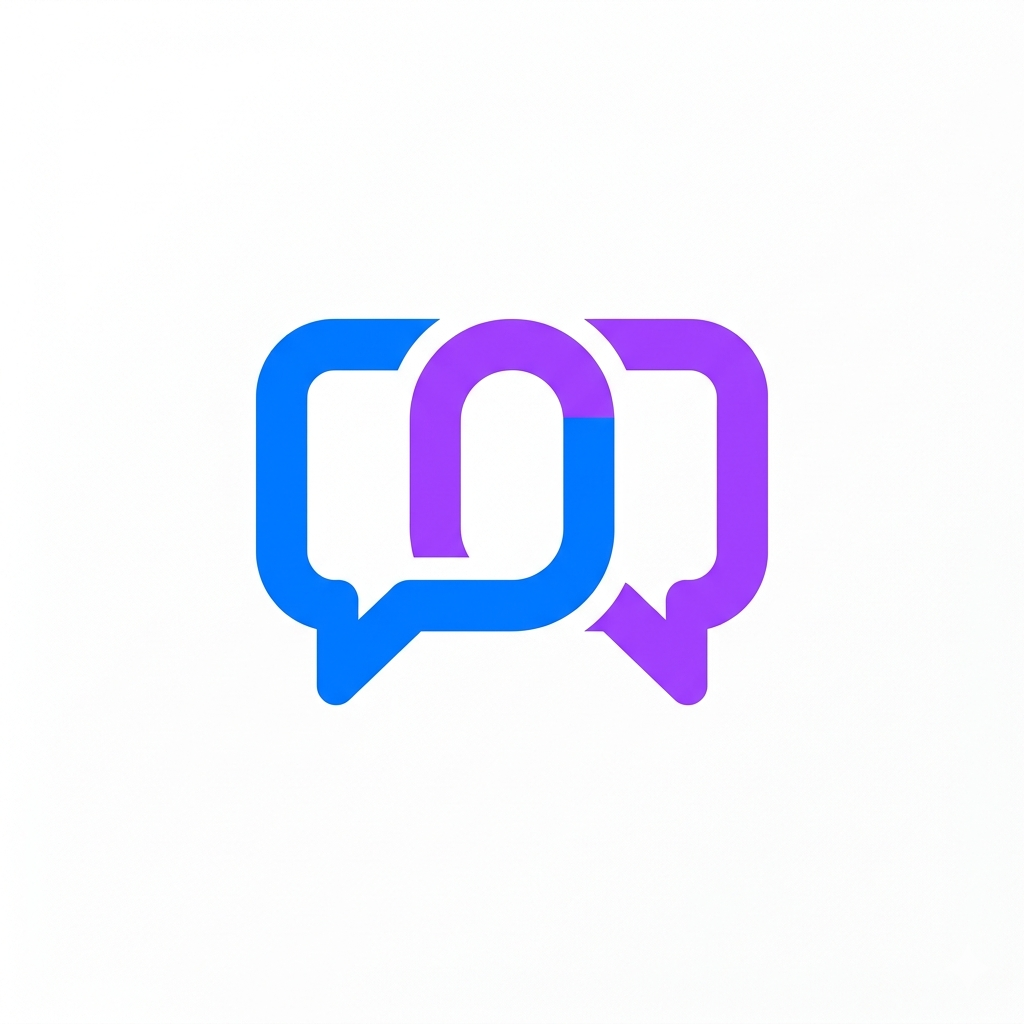
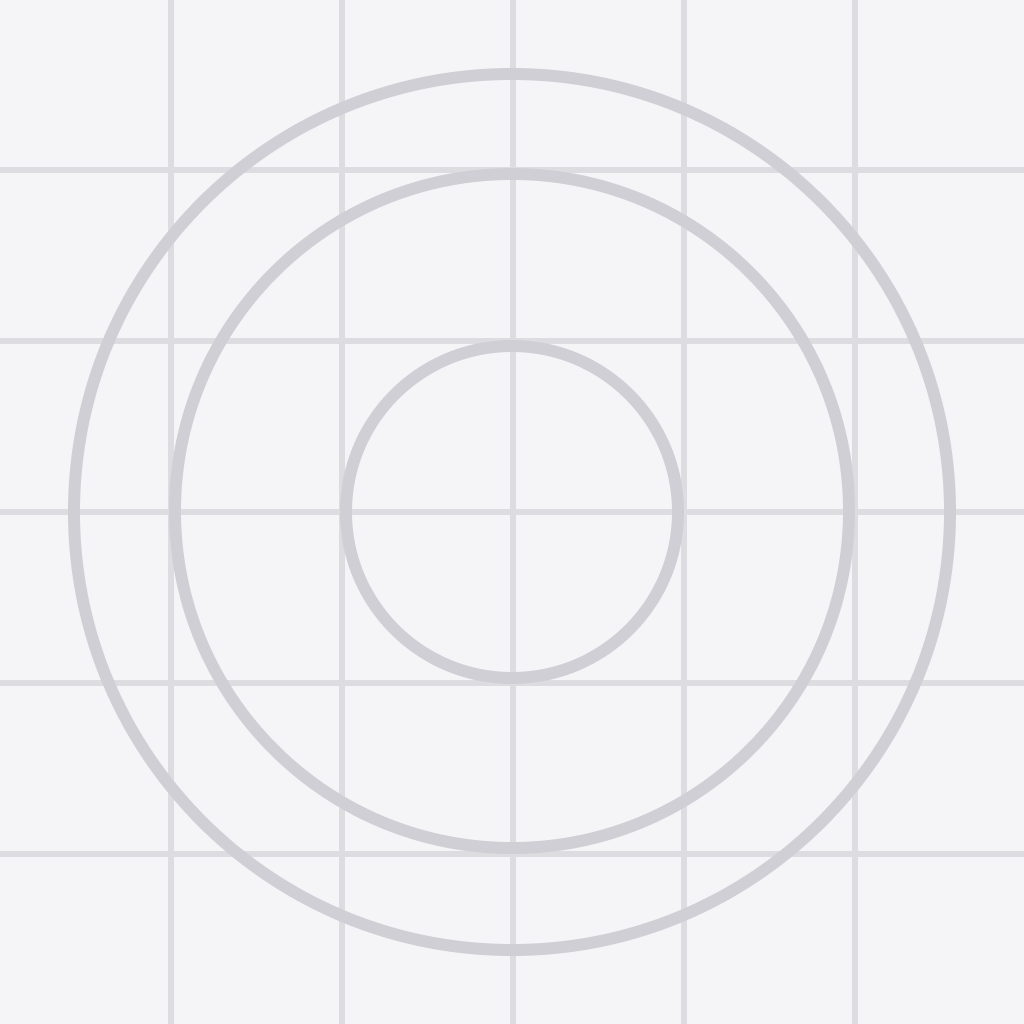
Add files via upload

diff --git a/AssetExample.js b/AssetExample.js
@@ -1,0 +1,31 @@
+import { Text, View, StyleSheet, Image } from 'react-native';
+
+export default function AssetExample() {
+  return (
+    <View style={styles.container}>
+      <Text style={styles.paragraph}>
+        Local files and assets can be imported by dragging and dropping them into the editor
+      </Text>
+      <Image style={styles.logo} source={require('../assets/snack-icon.png')} />
+    </View>
+  );
+}
+
+const styles = StyleSheet.create({
+  container: {
+    alignItems: 'center',
+    justifyContent: 'center',
+    padding: 24,
+  },
+  paragraph: {
+    margin: 24,
+    marginTop: 0,
+    fontSize: 14,
+    fontWeight: 'bold',
+    textAlign: 'center',
+  },
+  logo: {
+    height: 128,
+    width: 128,
+  }
+});